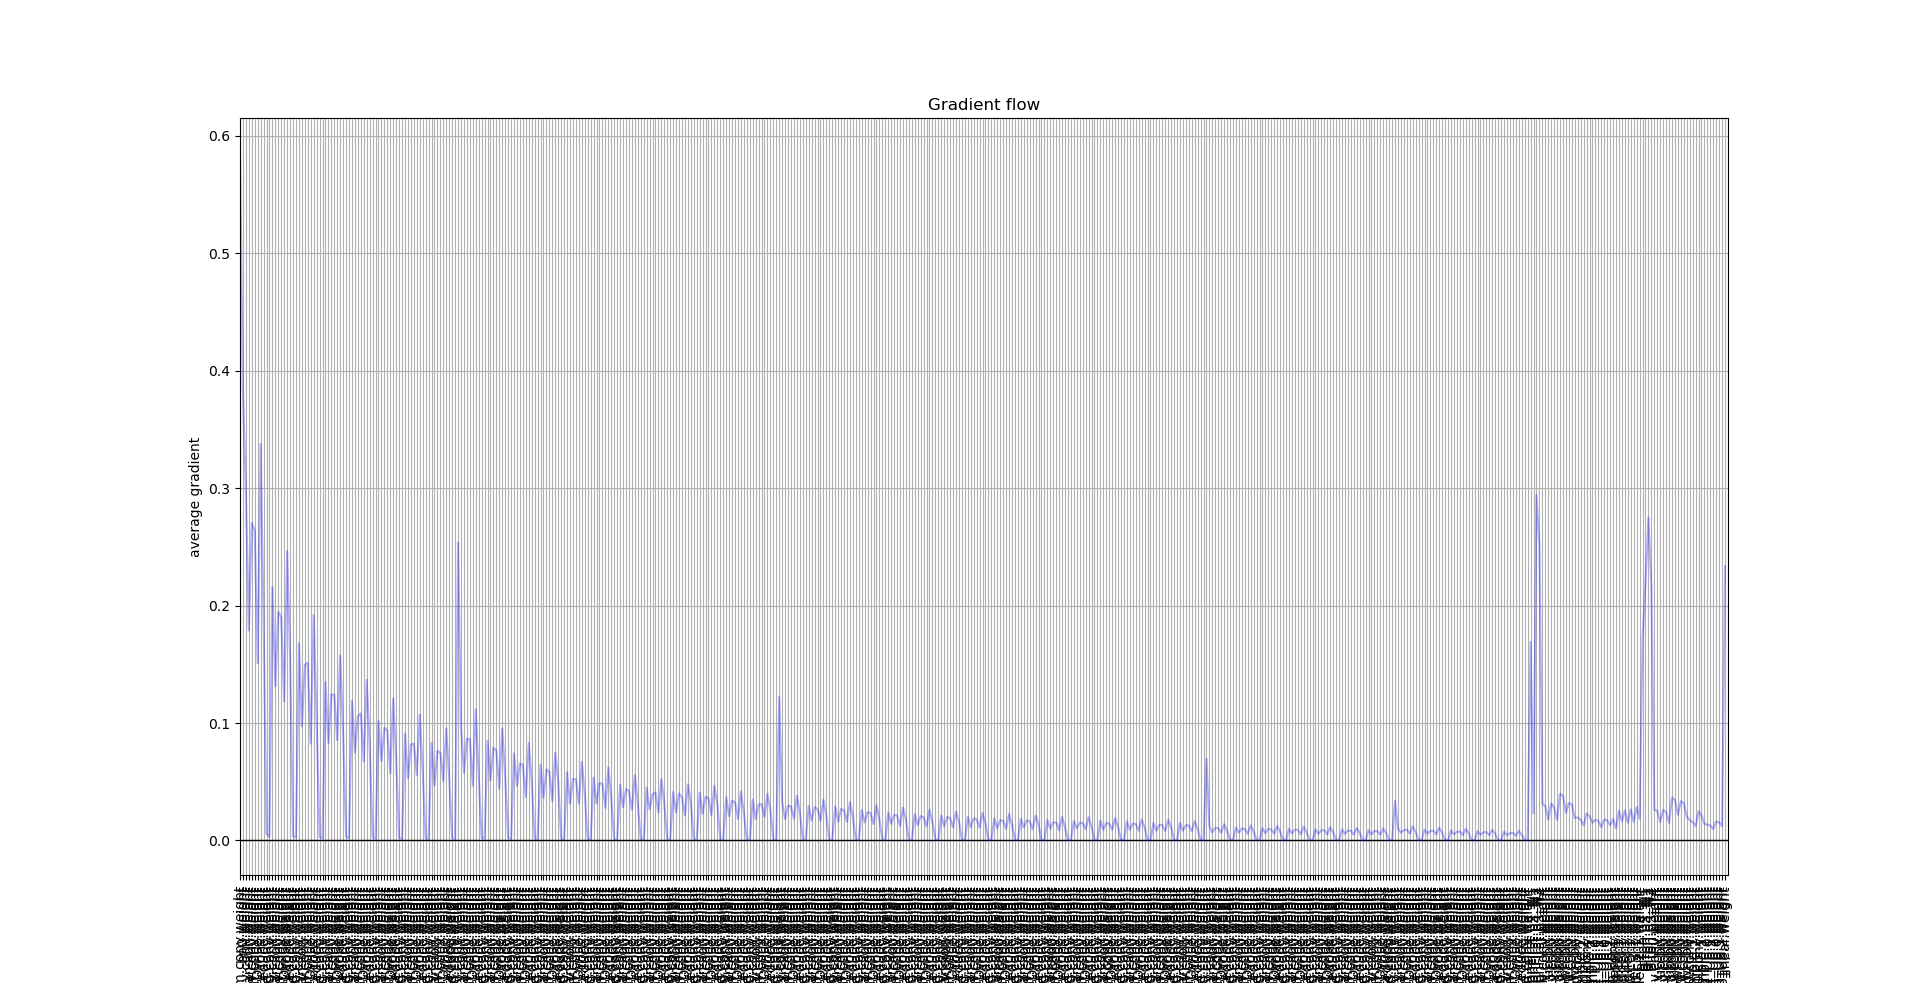
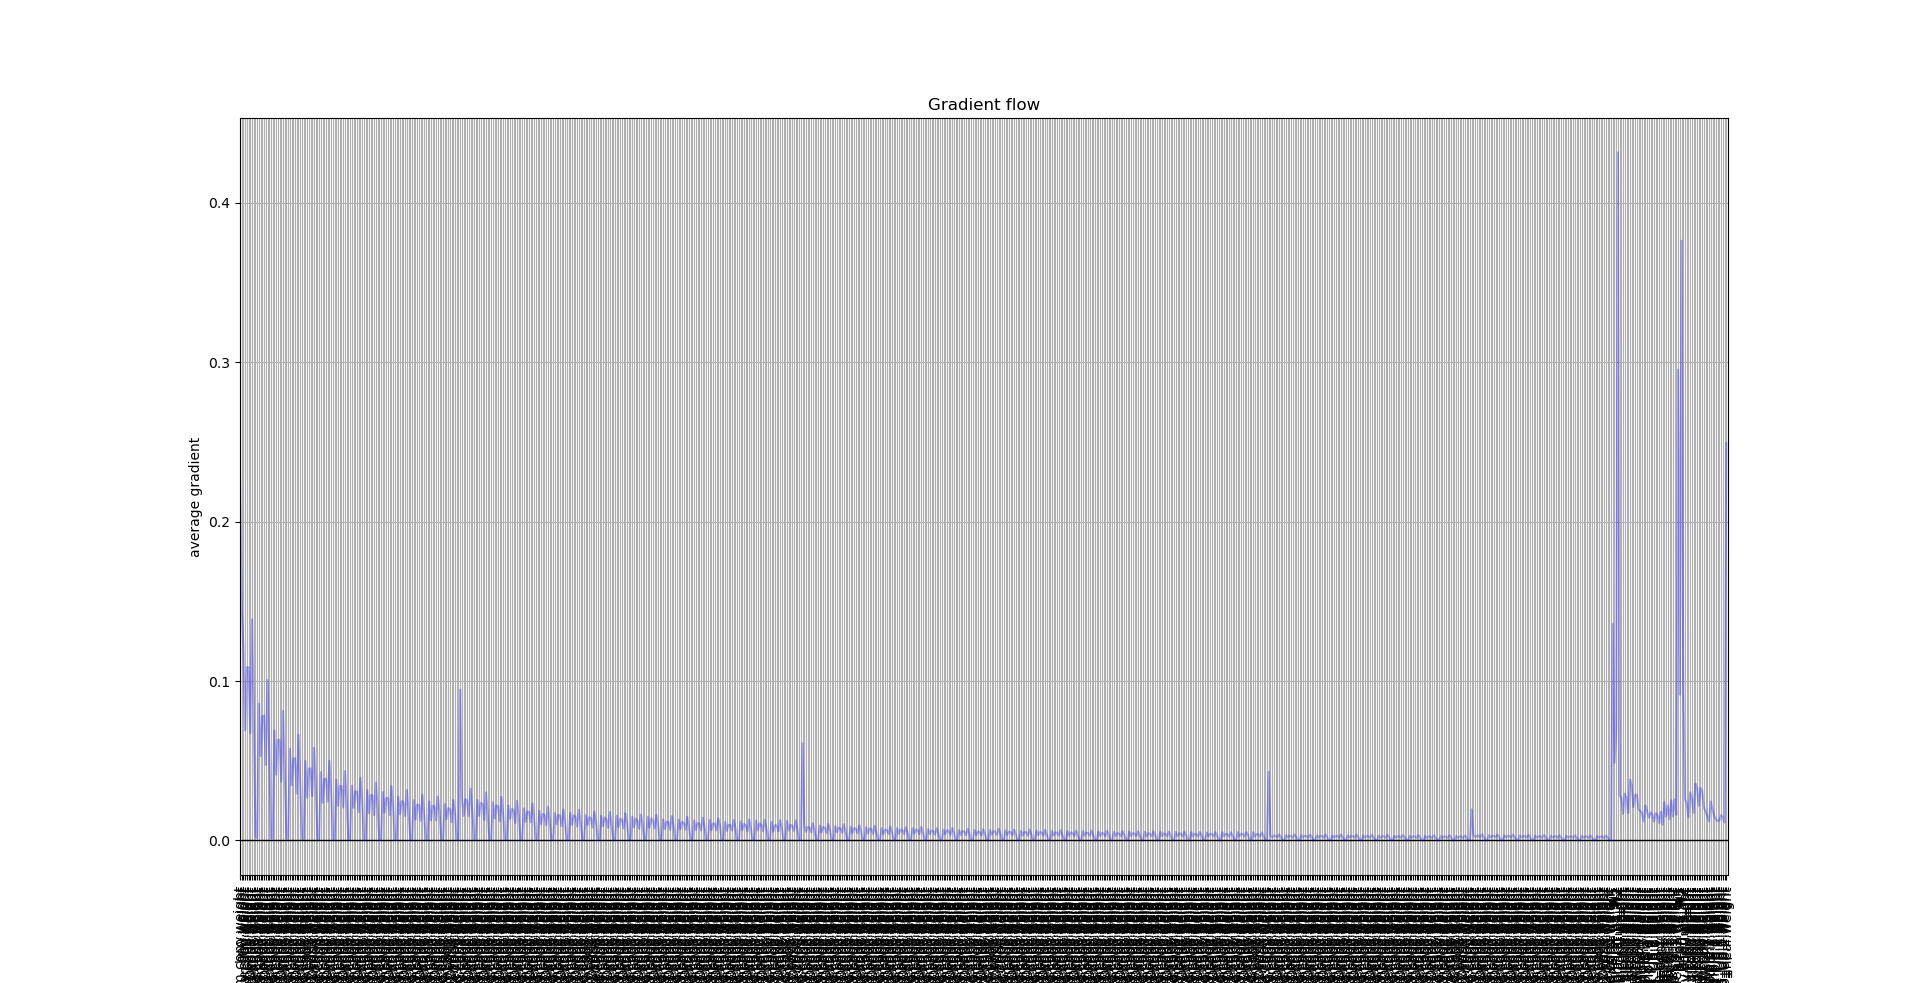
Changed Some Codes

diff --git a/TrainAndTest.py b/TrainAndTest.py
@@ -16,21 +16,21 @@ class DataLoaderX(d.DataLoader):
 
 if __name__ == "__main__":
     ### config
-    w = 2
-    d = 2
-    batchSize = 12
+    w = 4
+    d = 4
+    batchSize = 18
     tMaxIni = 1200
     growthRate = 32
     blocks = [6,12,24,16]
-    learning_rate = 2.57e-4
+    learning_rate = 7e-4
     minLR = 2e-6
     labelsNumber = 10
     ifUseBn = True
     ifTrain = True
     epoch = 50
     displayTimes = 25
-    modelSavePath = "./"
-    loadWeight = True
+    modelSavePath = "./Model_Weight/"
+    loadWeight = False
     trainModelLoad = 7
     testModelLoad = 0
     decayRate = 0.92
@@ -40,7 +40,7 @@ if __name__ == "__main__":
     ### Data pre-processing
     import math
     transformationTrain = tv.transforms.Compose([
-        tv.transforms.Resize(size=[32 * 2,32 * 2]),
+        #tv.transforms.Resize(size=[32 * 2,32 * 2]),
         # tv.transforms.RandomHorizontalFlip(p = 0.25),
         # tv.transforms.RandomVerticalFlip(p = 0.334),
         #tv.transforms.RandomApply([tv.transforms.RandomResizedCrop(32)],p=0.5),
@@ -48,7 +48,7 @@ if __name__ == "__main__":
         tv.transforms.Normalize([0.485, 0.456, 0.406],[0.229, 0.224, 0.225])
     ])
     transformationTest = tv.transforms.Compose([
-        tv.transforms.Resize(size=[32 * 2,32 * 2]),
+        #tv.transforms.Resize(size=[32 * 2,32 * 2]),
         tv.transforms.ToTensor(),
         tv.transforms.Normalize([0.485, 0.456, 0.406],[0.229, 0.224, 0.225])
     ])
@@ -98,7 +98,7 @@ if __name__ == "__main__":
                     print("Predict is : ",predict[0:3])
                     print("Labels are : ",labelsCuda[0:3])
                     print("Learning rate is ", optimizer.state_dict()['param_groups'][0]["lr"])
-                    print("Loss is ", oriLoss)
+                    print("Loss is ", oriLoss / batchSize + 0.)
                     print("Epoch : ", e)
                     print("Training time is ", trainingTimes)
                 trainingTimes += 1

diff --git a/EfficientNet.py b/EfficientNet.py
@@ -139,7 +139,7 @@ class EfficientNetReform(nn.Module):
         ### classify
         self.classify = classify
         if classify :
-            self.linear = nn.Linear(256, num_classes)
+            self.linear = nn.Linear(128 * 3, num_classes)
 
 
     def forward(self,x):
@@ -200,7 +200,7 @@ def plot_grad_flow(named_parameters):
 if __name__ == "__main__":
     from torch.optim import rmsprop
     testInput = torch.randn(size=[5,3,32 * 2,32 * 2]).float()
-    model = EfficientNetReform(in_channels=3,w=2,d=2)
+    model = EfficientNetReform(in_channels=3,w=4,d=4)
     optimizer = rmsprop.RMSprop(model.parameters(), 5e-4, momentum=0.9, weight_decay=1e-5)
     outputs = model(testInput)
     print(outputs)
